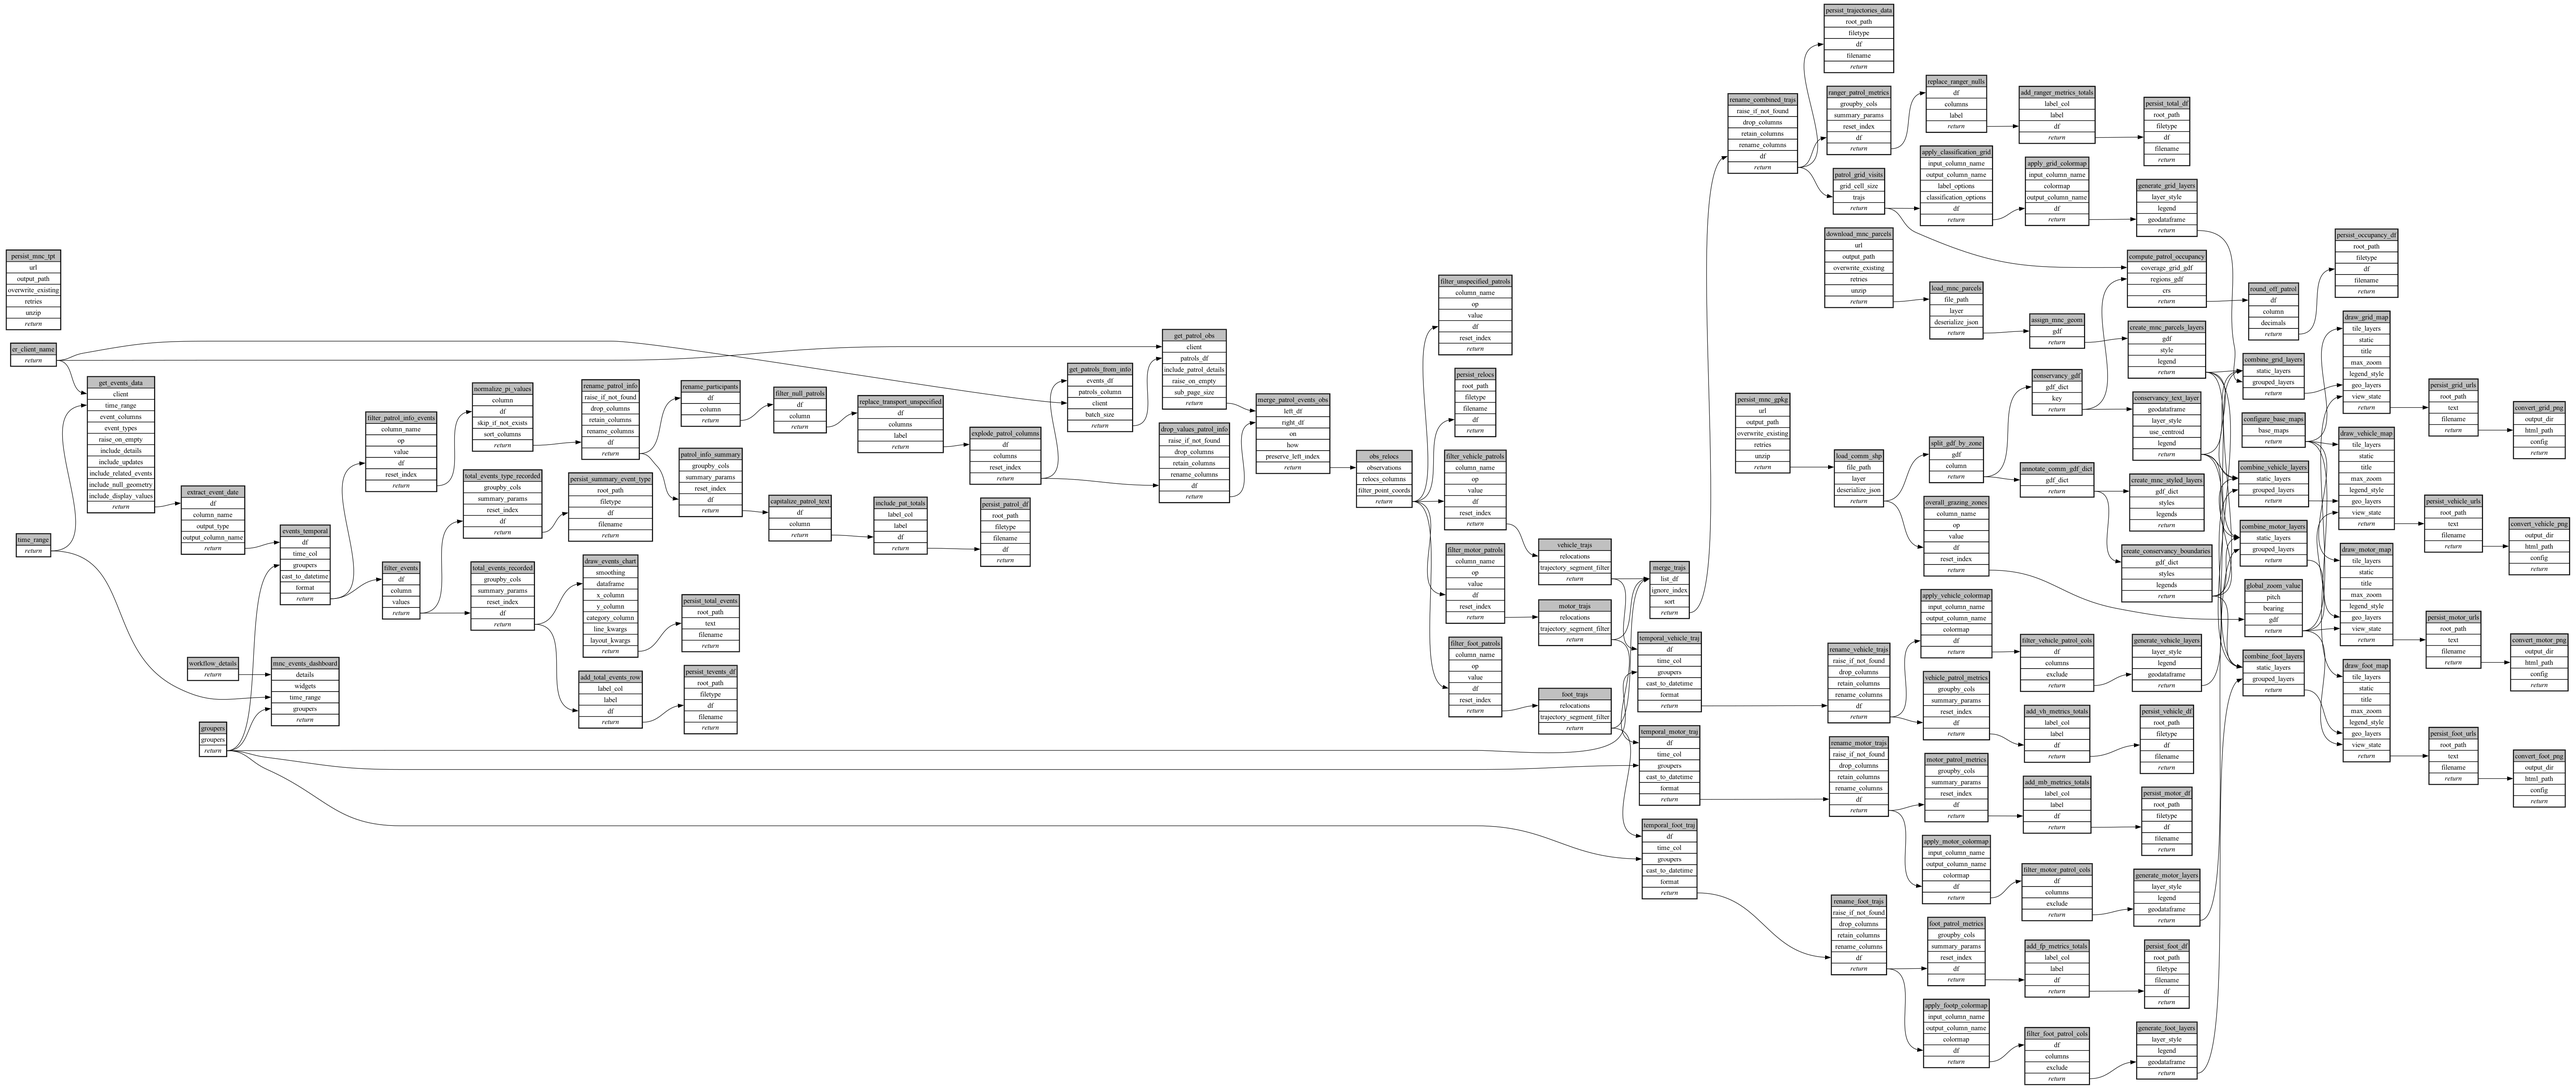
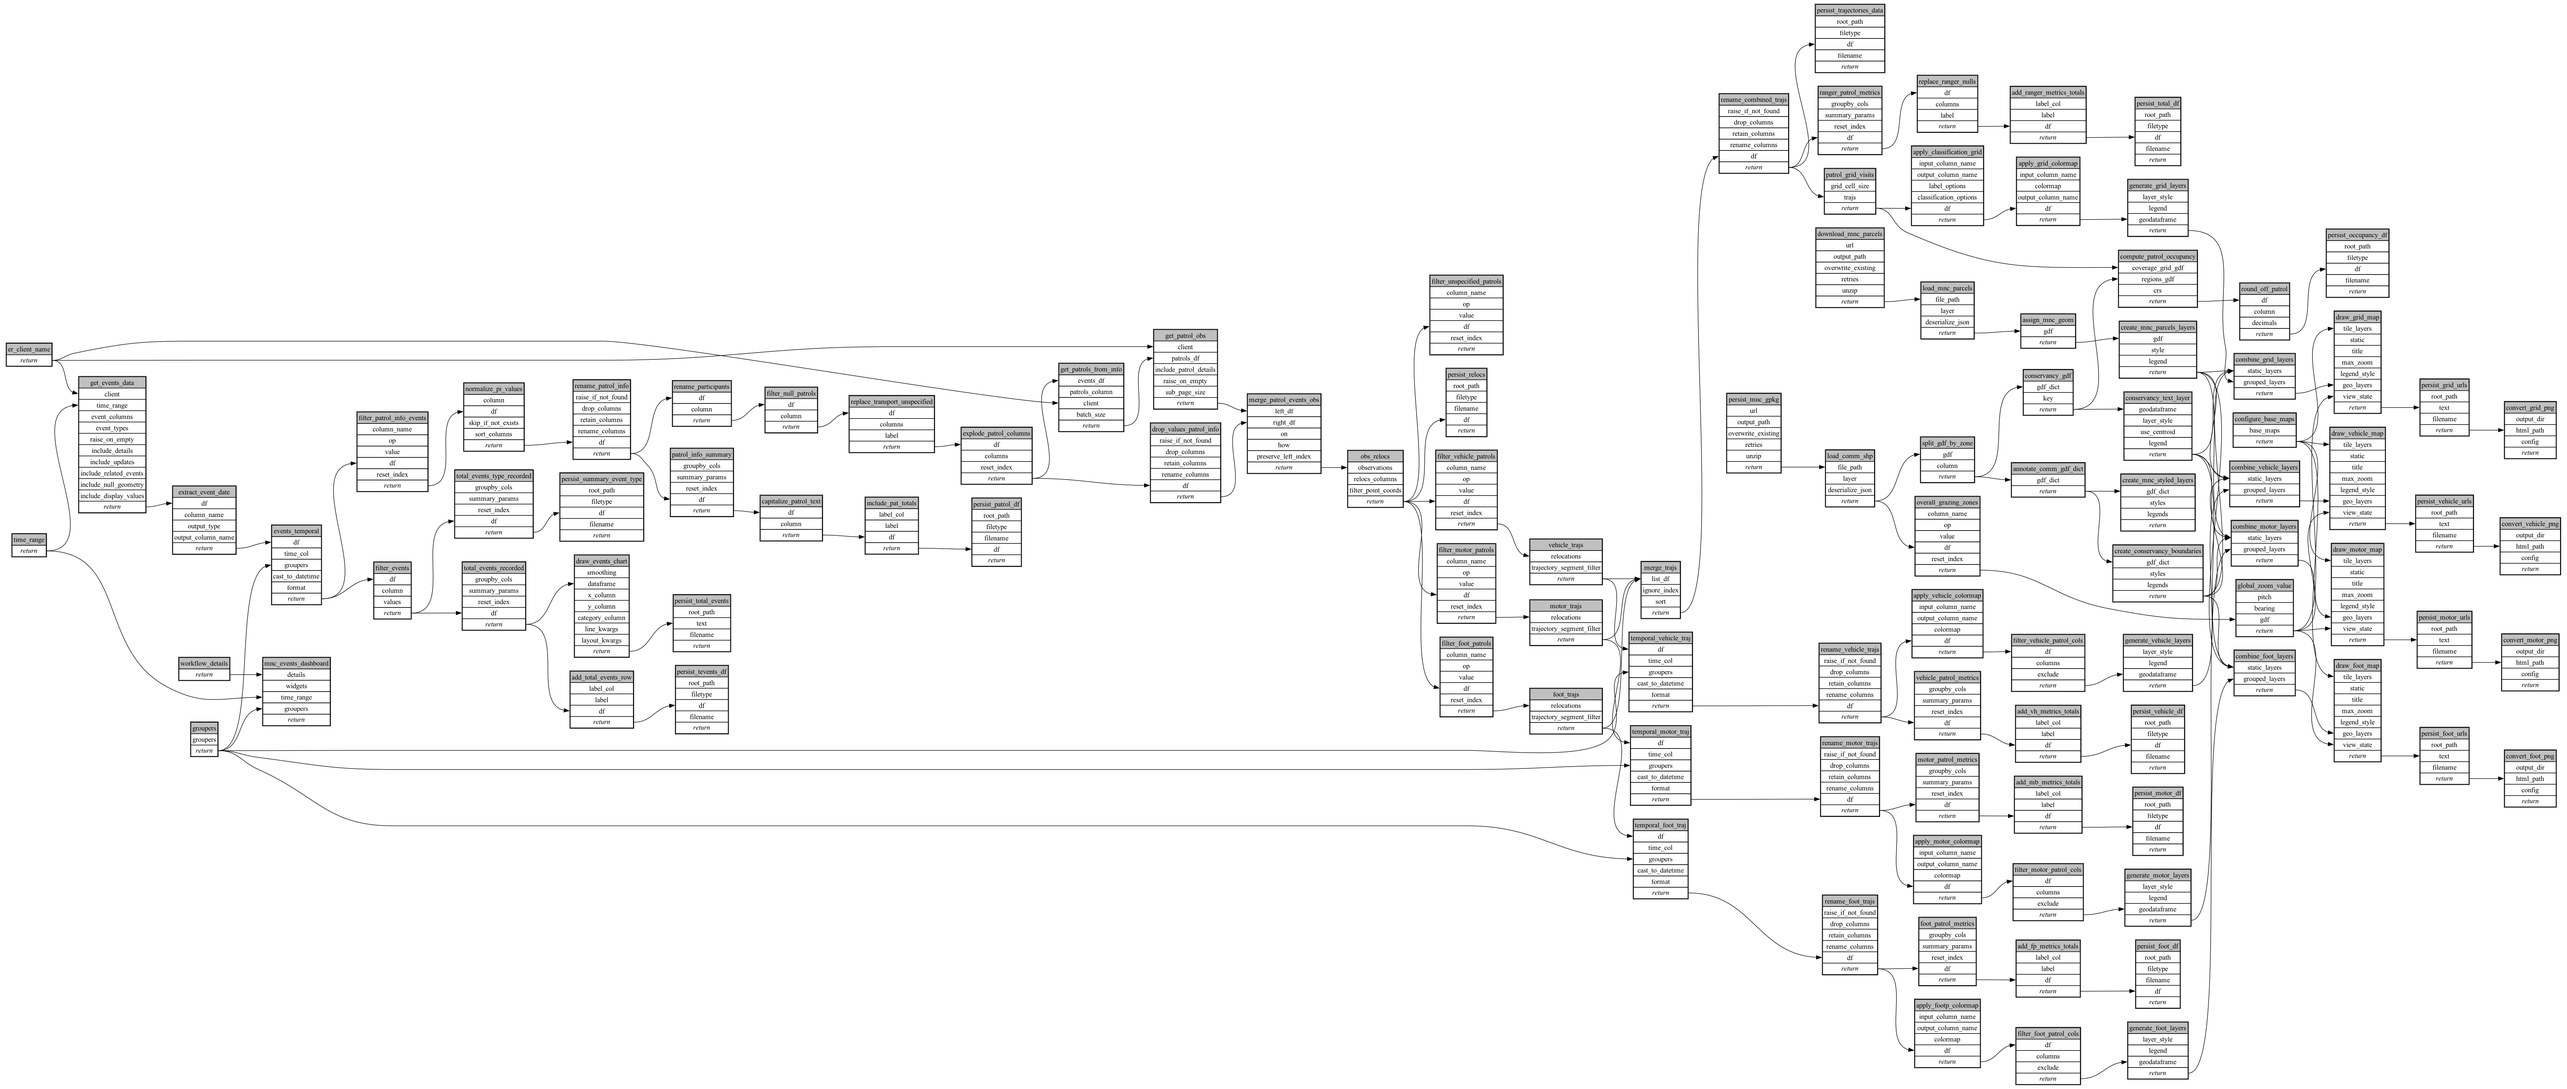
exclude mnc word template from spec

diff --git a/workflows/patrol_effort_report/ecoscope-workflows-patrol-effort-report-workflow/ecoscope_workflows_patrol_effort_report_workflow/dags/run_async.py b/workflows/patrol_effort_report/ecoscope-workflows-patrol-effort-report-workflow/ecoscope_workflows_patrol_effort_report_workflow/dags/run_async.py
@@ -120,7 +120,6 @@ def main(params: Params):
         "groupers": [],
         "er_client_name": [],
         "configure_base_maps": [],
-        "persist_mnc_tpt": [],
         "persist_mnc_gpkg": [],
         "download_mnc_parcels": [],
         "load_comm_shp": ["persist_mnc_gpkg"],
@@ -316,22 +315,6 @@ def main(params: Params):
                 ],
             }
             | (params_dict.get("configure_base_maps") or {}),
-            method="call",
-        ),
-        "persist_mnc_tpt": Node(
-            async_task=fetch_and_persist_file.validate()
-            .set_task_instance_id("persist_mnc_tpt")
-            .handle_errors()
-            .with_tracing()
-            .set_executor("lithops"),
-            partial={
-                "url": "https://www.dropbox.com/scl/fi/tx4fdlikfsijgw8jkugnr/mara_north_event_template.docx?rlkey=pvyu3y7ibpphbqlqc6u1pns3t&st=iuurvvfp&dl=0",
-                "output_path": os.environ["ECOSCOPE_WORKFLOWS_RESULTS"],
-                "overwrite_existing": False,
-                "retries": 3,
-                "unzip": False,
-            }
-            | (params_dict.get("persist_mnc_tpt") or {}),
             method="call",
         ),
         "persist_mnc_gpkg": Node(

diff --git a/workflows/patrol_effort_report/ecoscope-workflows-patrol-effort-report-workflow/ecoscope_workflows_patrol_effort_report_workflow/dags/run_async_mock_io.py b/workflows/patrol_effort_report/ecoscope-workflows-patrol-effort-report-workflow/ecoscope_workflows_patrol_effort_report_workflow/dags/run_async_mock_io.py
@@ -136,7 +136,6 @@ def main(params: Params):
         "groupers": [],
         "er_client_name": [],
         "configure_base_maps": [],
-        "persist_mnc_tpt": [],
         "persist_mnc_gpkg": [],
         "download_mnc_parcels": [],
         "load_comm_shp": ["persist_mnc_gpkg"],
@@ -332,22 +331,6 @@ def main(params: Params):
                 ],
             }
             | (params_dict.get("configure_base_maps") or {}),
-            method="call",
-        ),
-        "persist_mnc_tpt": Node(
-            async_task=fetch_and_persist_file.validate()
-            .set_task_instance_id("persist_mnc_tpt")
-            .handle_errors()
-            .with_tracing()
-            .set_executor("lithops"),
-            partial={
-                "url": "https://www.dropbox.com/scl/fi/tx4fdlikfsijgw8jkugnr/mara_north_event_template.docx?rlkey=pvyu3y7ibpphbqlqc6u1pns3t&st=iuurvvfp&dl=0",
-                "output_path": os.environ["ECOSCOPE_WORKFLOWS_RESULTS"],
-                "overwrite_existing": False,
-                "retries": 3,
-                "unzip": False,
-            }
-            | (params_dict.get("persist_mnc_tpt") or {}),
             method="call",
         ),
         "persist_mnc_gpkg": Node(

diff --git a/workflows/patrol_effort_report/ecoscope-workflows-patrol-effort-report-workflow/ecoscope_workflows_patrol_effort_report_workflow/dags/run_sequential.py b/workflows/patrol_effort_report/ecoscope-workflows-patrol-effort-report-workflow/ecoscope_workflows_patrol_effort_report_workflow/dags/run_sequential.py
@@ -167,22 +167,6 @@ def main(params: Params):
         .call()
     )
 
-    persist_mnc_tpt = (
-        fetch_and_persist_file.validate()
-        .set_task_instance_id("persist_mnc_tpt")
-        .handle_errors()
-        .with_tracing()
-        .partial(
-            url="https://www.dropbox.com/scl/fi/tx4fdlikfsijgw8jkugnr/mara_north_event_template.docx?rlkey=pvyu3y7ibpphbqlqc6u1pns3t&st=iuurvvfp&dl=0",
-            output_path=os.environ["ECOSCOPE_WORKFLOWS_RESULTS"],
-            overwrite_existing=False,
-            retries=3,
-            unzip=False,
-            **(params_dict.get("persist_mnc_tpt") or {}),
-        )
-        .call()
-    )
-
     persist_mnc_gpkg = (
         fetch_and_persist_file.validate()
         .set_task_instance_id("persist_mnc_gpkg")

diff --git a/workflows/patrol_effort_report/ecoscope-workflows-patrol-effort-report-workflow/ecoscope_workflows_patrol_effort_report_workflow/dags/run_sequential_mock_io.py b/workflows/patrol_effort_report/ecoscope-workflows-patrol-effort-report-workflow/ecoscope_workflows_patrol_effort_report_workflow/dags/run_sequential_mock_io.py
@@ -183,22 +183,6 @@ def main(params: Params):
         .call()
     )
 
-    persist_mnc_tpt = (
-        fetch_and_persist_file.validate()
-        .set_task_instance_id("persist_mnc_tpt")
-        .handle_errors()
-        .with_tracing()
-        .partial(
-            url="https://www.dropbox.com/scl/fi/tx4fdlikfsijgw8jkugnr/mara_north_event_template.docx?rlkey=pvyu3y7ibpphbqlqc6u1pns3t&st=iuurvvfp&dl=0",
-            output_path=os.environ["ECOSCOPE_WORKFLOWS_RESULTS"],
-            overwrite_existing=False,
-            retries=3,
-            unzip=False,
-            **(params_dict.get("persist_mnc_tpt") or {}),
-        )
-        .call()
-    )
-
     persist_mnc_gpkg = (
         fetch_and_persist_file.validate()
         .set_task_instance_id("persist_mnc_gpkg")

diff --git a/workflows/patrol_effort_report/ecoscope-workflows-patrol-effort-report-workflow/ecoscope_workflows_patrol_effort_report_workflow/dags/jupytext.py b/workflows/patrol_effort_report/ecoscope-workflows-patrol-effort-report-workflow/ecoscope_workflows_patrol_effort_report_workflow/dags/jupytext.py
@@ -243,34 +243,6 @@ configure_base_maps = (
 
 
 # %% [markdown]
-# ## Download MNC template and persist
-
-# %%
-# parameters
-
-persist_mnc_tpt_params = dict()
-
-# %%
-# call the task
-
-
-persist_mnc_tpt = (
-    fetch_and_persist_file.set_task_instance_id("persist_mnc_tpt")
-    .handle_errors()
-    .with_tracing()
-    .partial(
-        url="https://www.dropbox.com/scl/fi/tx4fdlikfsijgw8jkugnr/mara_north_event_template.docx?rlkey=pvyu3y7ibpphbqlqc6u1pns3t&st=iuurvvfp&dl=0",
-        output_path=os.environ["ECOSCOPE_WORKFLOWS_RESULTS"],
-        overwrite_existing=False,
-        retries=3,
-        unzip=False,
-        **persist_mnc_tpt_params,
-    )
-    .call()
-)
-
-
-# %% [markdown]
 # ## Download MNC community conservancy boundaries
 
 # %%

diff --git a/workflows/patrol_effort_report/ecoscope-workflows-patrol-effort-report-workflow/README.md b/workflows/patrol_effort_report/ecoscope-workflows-patrol-effort-report-workflow/README.md
@@ -5,8 +5,8 @@
 
 ```yaml
 # fingerprint:
-artifacts_sha256_basic: e34f90dfab3586b8e4e014a8d4650da1fe16f2c673ca97271817eeb5e9f755fd
-artifacts_sha256_strict: 7ef3b5174da59a5412860d5419fcc0a27984faec8a2715b65e3f37332c1260c8
+artifacts_sha256_basic: 5d9a6a909997aaf5ab4fdc3b25427c70be53df32f89ea63ec2ba0b08784c61de
+artifacts_sha256_strict: fe92553acd8f8843133a3aa10b7b0df9e6ed30e1c3e6f393e05c1601872bcb58
 installed_requirements:
 - channel: https://repo.prefix.dev/ecoscope-workflows/
   name: ecoscope-workflows-core
@@ -24,7 +24,7 @@ installed_requirements:
   name: ecoscope-workflows-ext-mnc
   version: {version: ==0.0.8}
 params_sha256: 3ab4c0f59c459fe3feea277da14ef6a8b3d0dfc0f958f3f015ddd4d700bcc5f8
-spec_sha256: d3569c1826404ff0a7bda4c1bc7d7963e4ac855ee4c48d7fde1e89baea43ad3e
+spec_sha256: a14fcdcc015bd64e5eac66c47b5fa4553f527fb4c24f3180a9ece081b8ff6466
 
 ```
 
